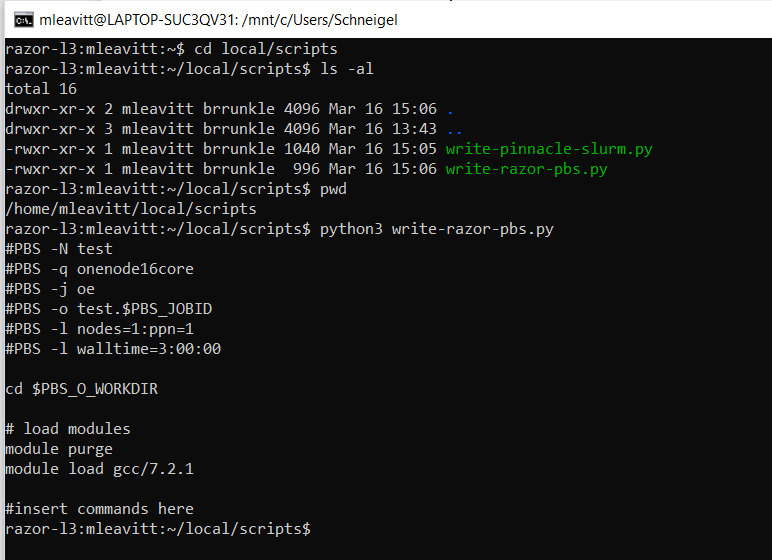
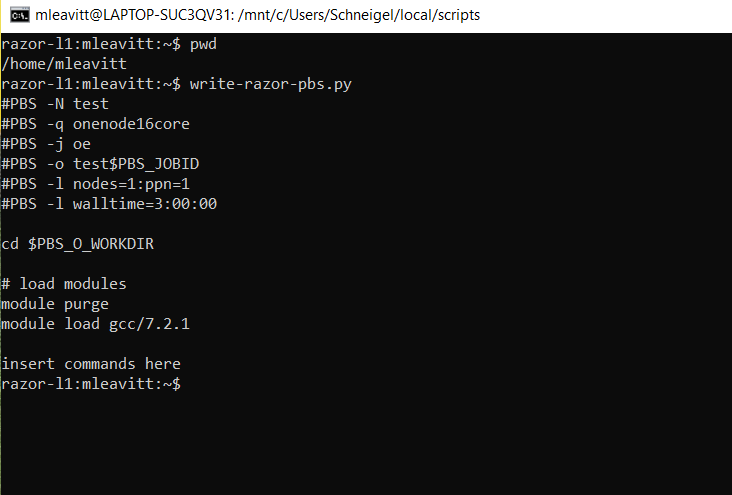
Fixed problem with razor path and updated assignment 4 info to reflect this

Changed region(s): [[0.0, 0.0, 0.8415, 1.0]]

diff --git a/write-razor-pbs.py b/write-razor-pbs.py
@@ -2,32 +2,32 @@
 
 # This script generates a pbs file for the AHPCC razor cluster
 
-#define some variables
+# define some variables
 queue = 'onenode16core'
-wall = 3 #this is in hours
+wall = 3 # This is in hours
 name = 'test'
-output = 'test.'
+output = 'test'
 node_num = 1
 p_num = 1
 
-#This section prints the header/required info for the pbs script
+# This section prints the headr/required info for the pbs script
 print('#PBS -N', name) #job name
 print('#PBS -q', queue) #which queue to use 
 print('#PBS -j oe') #join the STDOUT and STDERR into a single file
 print('#PBS -o', output + '$PBS_JOBID') #set the name of the job output file
 print('#PBS -l nodes=' + str(node_num) + ':ppn='+ str(p_num)) #how many resources to ask for (nodes=num nodes), (ppn = num processors)
 print('#PBS -l walltime=' + str(wall) + ':00:00') #set the wall time (default to 1 hr)
-print() 
+print()
 
 # cd into working directory
 print('cd $PBS_O_WORKDIR')
 print()
 
-#load necessary modules
+# load necessary modules
 print('# load modules')
 print('module purge')
 print('module load gcc/7.2.1')
 print()
 
 #commands for this job
-print('#insert commands here')
+print("insert commands here")

diff --git a/write-pinnacle-slurm.py b/write-pinnacle-slurm.py
@@ -2,7 +2,7 @@
 
 # This script generates a pbs file for the AHPCC pinnacle cluster
 
-#Define some variables
+# Define some variables
 name = 'Trinity_assembly'
 queue = 'comp06'
 output = 'Trinity_'

diff --git a/README.md b/README.md
@@ -6,14 +6,6 @@
 # 2. assn03.tgz - Zipped tape archive of assignment 3 pbs files and output
 # 3. write-razor-pbs.py - Python script file for use in the razor cluster created for assignment 4
 # 4. write-pinnacle-slurm.py - Python script file for use in pinnacle cluster created for assignment 4
-# 5. Assn4.3_output.png - Image of my output from questions 3 of assignment 4. Note that the script would only run 
-# when I called python3 scriptname in the scripts file and not anywhere else in the cluster. Below I have attached 
-# the bash* files so you can see I did modify the path appropriately. Both bash files loaded when I logged onto razor
-# so I don't know why the scripts wouldn't run.
+# 5. Assn4.3_output.png - Image of my output from questions 3 of assignment 4.
 ![assignment 4 output](https://github.com/ritaleavitt/BIOL5153/blob/main/Assn4.3_output.png)
-# 6. .bashrc_image.png - Proof that I did modify my .bashrc file in a way that should have modified the path to work.
-![.bashrc image](https://github.com/ritaleavitt/BIOL5153/blob/main/.bashrc_image.png)
-# 7. .bash_profile_image.png - Proof that I did modify my .bash_profile in a way that should have modified the path 
-# to work.
-![.bash_profile image](https://github.com/ritaleavitt/BIOL5153/blob/main/.bash_profile_image.png)
 
